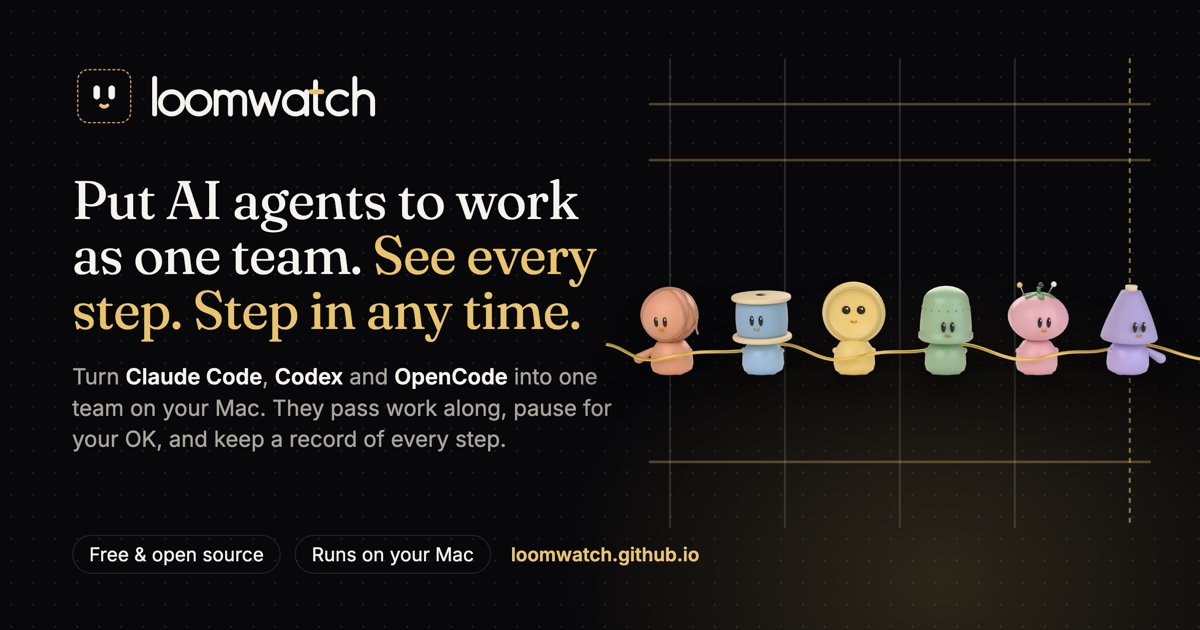
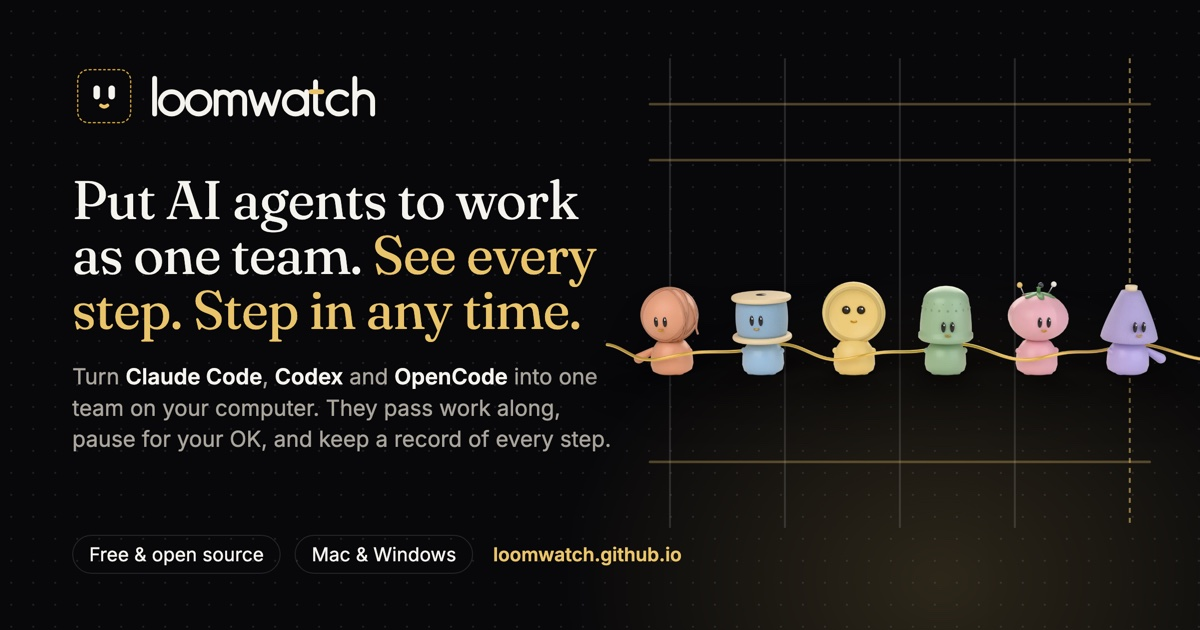
docs(site): the share card and the Notion guide say Mac and Windows

Changed region(s): [[0.0617, 0.6333, 0.5242, 0.7238], [0.2467, 0.8444, 0.5858, 0.9048]]

diff --git a/site/index.html b/site/index.html
@@ -11,14 +11,14 @@
   <meta property="og:description" content="Turn the AI apps you already use, like Claude Code, Codex and OpenCode, into one team on your computer. See every step, and step in any time. Free and open source.">
   <meta property="og:type" content="website">
   <meta property="og:url" content="https://loomwatch.github.io/">
-  <meta property="og:image" content="https://loomwatch.github.io/social-card.jpg?v=7">
+  <meta property="og:image" content="https://loomwatch.github.io/social-card.jpg?v=8">
   <meta property="og:image:width" content="1200">
   <meta property="og:image:height" content="630">
   <meta property="og:image:alt" content="LoomWatch: put AI agents to work as one team. Six friendly figures, a yarn ball, a spool, a button, a thimble, a pincushion and a thread cone, joined by one gold thread.">
   <meta name="twitter:card" content="summary_large_image">
   <meta name="twitter:title" content="LoomWatch — Put AI agents to work as one team">
   <meta name="twitter:description" content="Turn the AI apps you already use, like Claude Code, Codex and OpenCode, into one team on your computer. See every step, and step in any time. Free and open source.">
-  <meta name="twitter:image" content="https://loomwatch.github.io/social-card.jpg?v=7">
+  <meta name="twitter:image" content="https://loomwatch.github.io/social-card.jpg?v=8">
   <meta name="twitter:image:alt" content="LoomWatch: put AI agents to work as one team. Six friendly figures, a yarn ball, a spool, a button, a thimble, a pincushion and a thread cone, joined by one gold thread.">
   <link rel="canonical" href="https://loomwatch.github.io/">
   <link rel="icon" href="favicon.ico" sizes="32x32">

diff --git a/site/social-card.html b/site/social-card.html
@@ -85,11 +85,11 @@
     </div>
     <h1>Put AI agents to work as one team. <em>See every step. Step in any time.</em></h1>
     <p class="lede">Turn <b>Claude Code</b>, <b>Codex</b> and <b>OpenCode</b> into one team on your
-      Mac. They pass work along, pause for your OK, and keep a record of every step.</p>
+      computer. They pass work along, pause for your OK, and keep a record of every step.</p>
   </div>
   <div class="foot">
     <span class="pill">Free &amp; open source</span>
-    <span class="pill">Runs on your Mac</span>
+    <span class="pill">Mac &amp; Windows</span>
     <span class="url">loomwatch.github.io</span>
   </div>
   <svg class="loom" viewBox="0 0 520 470" aria-hidden="true">

diff --git a/docs/NOTION.md b/docs/NOTION.md
@@ -32,7 +32,7 @@ destination you chose. It holds the sign-in itself; agents never receive it.
 Notion ends it after 30 days without use, or after 180 days in all; then Connections and every
 delivery say to connect again. Connecting again to the same workspace keeps the destination page.
 
-**Disconnect** removes the sign-in from this Mac and asks Notion to revoke it. You can also remove
+**Disconnect** removes the sign-in from this computer and asks Notion to revoke it. You can also remove
 LoomWatch in Notion's settings, under its connections.
 
 ## Advanced: connect with an integration token
